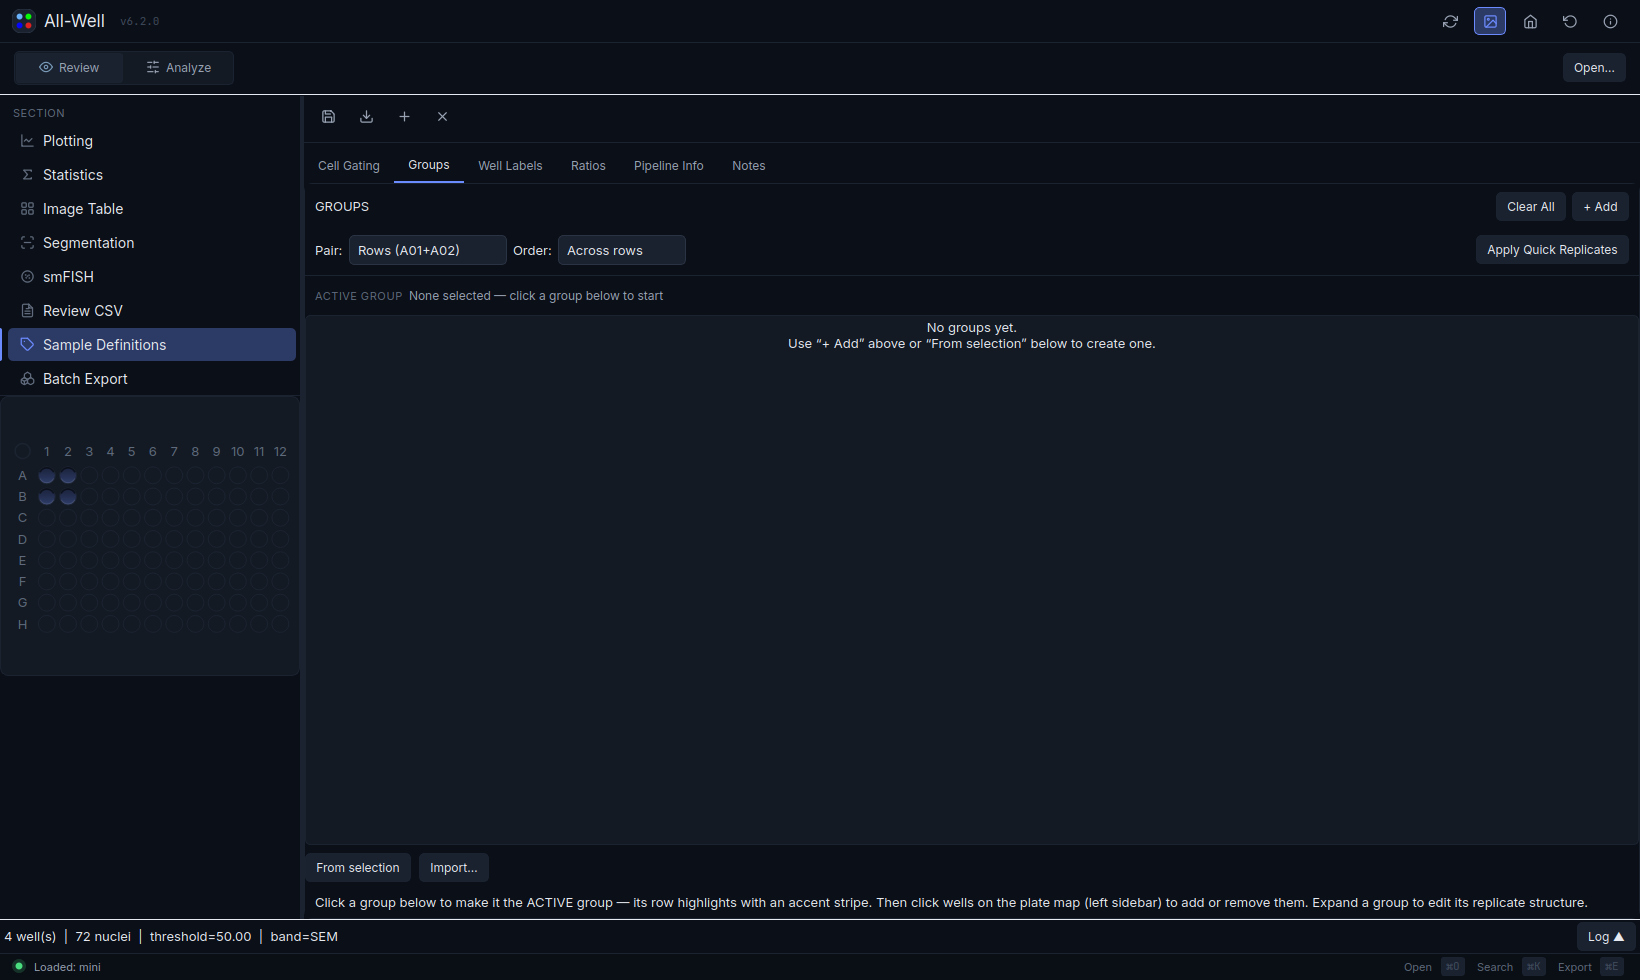
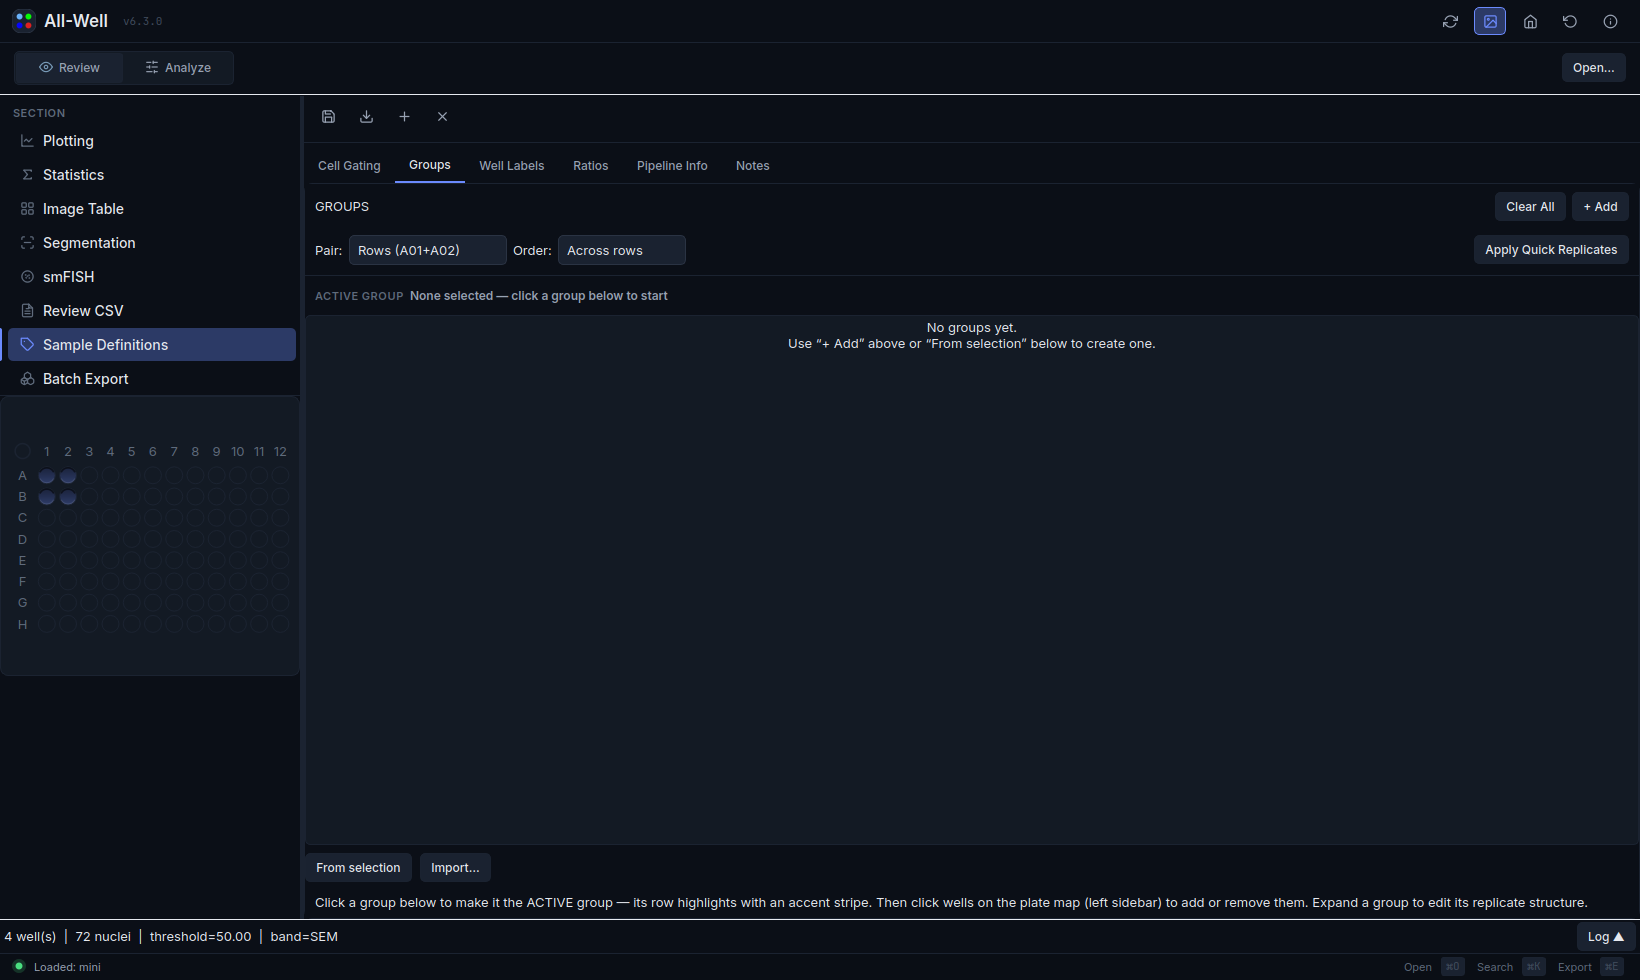
v6.3.0: bump version + refresh ARCHITECTURE history & audit screenshots
Version pill v6.2.0 → v6.3.0 (spec metadata 6.1.14 → 6.3.0). Document the last
two days in the ARCHITECTURE version history (Code-Diet extraction #400–#405,
visual-audit + fix wave #406–#417, font bundling) and refresh the startup-font
wiring + analyze_tab_form notes. Re-rendered every audit screenshot (now v6.3.0,
static fonts, image-table carets, themed smFISH empty state).

diff --git a/all_well.py b/all_well.py
@@ -96,7 +96,7 @@ class AllWellApp(QMainWindow):
         hl.addWidget(title)
 
         # Phase 10 (B2): version pill next to wordmark.
-        self._version_pill = QLabel("v6.2.0")
+        self._version_pill = QLabel("v6.3.0")
         self._version_pill.setObjectName("VersionPill")
         self._version_pill.setStyleSheet(
             f"color: {theme_v2.Colors.text_faint}; "

diff --git a/_Docs/Markdowns/ARCHITECTURE.md b/_Docs/Markdowns/ARCHITECTURE.md
@@ -241,7 +241,9 @@ all_well_launcher.main()                       (PyInstaller bundle only)
     ▼ regular Python run jumps in here:
 all_well.main()
     ├── QApplication(sys.argv)
-    ├── theme_v2.Typography.family ← app.font().family()      ← collapse QSS family list
+    ├── app_fonts.register_qt_fonts() → theme_v2.Typography.family/_mono
+    │       ← register bundled Inter / JetBrains Mono (static instances),
+    │         falling back to app.font().family() if unavailable
     ├── app.setStyleSheet(theme.qss())                        ← global QSS
     ├── AllWellApp().__init__
     │       ├── _build_ui()
@@ -764,11 +766,15 @@ ceiling at the current floor; it can only ratchet down from here.
 
 ## 6. The Analyze side
 
-### 6.1 `analyze_tab.py`
+### 6.1 `analyze_tab.py` / `analyze_tab_form.py`
 
-A single-file Qt form that builds the input panel (folder pickers, channel
-tokens, top-hat radii, segmentation method, smFISH options, worker count)
-plus a live-streaming log panel and a Run / Stop button. The Run path:
+The Qt form that builds the input panel (folder pickers, channel tokens,
+top-hat radii, segmentation method, smFISH options, worker count) plus a
+live-streaming log panel and a Run / Stop button. The form-building code was
+extracted into `analyze_tab_form.py` (a mixin consumed by `AnalyzeTab`) during
+the Code-Diet pass so `analyze_tab.py` stays under its line budget; the two are
+edited together. Verbose inline helper paragraphs are collapsed behind hover
+`ⓘ` icons (`_info_icon` / `_section(info=…)`). The Run path:
 
 1. Validate the form.
 2. Call `services.pipeline_service.find_pipeline_script()` to locate
@@ -1649,6 +1655,12 @@ an allowlist before a guard could be clean.
 The 6.0 series adds the live run-status dashboard and hardens the run path
 (remote fetch, crash-safety, dead-code removal) on top of the 5.5 analysis
 line. Newest first:
+
+- **6.3.0 — UI polish: bundled static fonts + Analyze info tooltips + dropdown carets + smFISH empty-state.** Shipped static weight instances of Inter / JetBrains Mono (generated via `scripts/make_static_fonts.py`) so the bundled faces register reliably on Windows (variable-font `addApplicationFont` was silently falling back to the platform default). Subsumed the inline helper paragraphs under the Analyze tab's Fluorescent-channels, Radius and Output-options areas into hover `ⓘ` info icons. Reserved space for dropdown-button carets in the global QSS so the `▾`/menu-indicator no longer overlaps button text. Made the smFISH "not enabled" empty state paint on the theme background like every other plot's empty warning (was a bare white axes + hardcoded grey). Version pill → `v6.3.0`.
+
+- **6.2.x — Visual UI audit + fix wave (PRs #406–#417, #410, #413).** A headless render harness (`tests/visual/render_views.py`) grabs every view/tab/empty-state to PNG (offscreen Qt + Agg, compositing nested matplotlib canvases), feeding a graded audit (`_Docs/visual_audit/REPORT.md` + committed screenshots). The audit drove a wave of fixes: bundled **Inter** (UI) + **JetBrains Mono** (numeric) fonts so the chrome and plots match across OSes (`well_viewer/core/app_fonts.py`, wired once in `all_well.main` and read by `plot_style`); fixed a `flush_dirty_scopes` import crash and a scatter `math` `NameError` that cascaded through load (#407); Image-Table declutter — Source **Raw/Corrected** options and a per-channel `≥Thr` threshold map that respects sample-definition thresholds (`image_compose.py`, `review_image/collect.py`, #408/#409); Batch-Export header cleanup (#412), a **filename-collision** guard so two groups with punctuation-only name differences no longer silently overwrite each other (`batch_export/_common.py::unique_export_stem`, #414), and OUTPUT-SETTINGS field alignment + button regrouping (#416); plus scatter agg-title de-clip and a Statistics empty-state hint (#417). Font packaging fixes for frozen builds + the `monospace` QSS alias warning (#413).
+
+- **6.1.x — "Code Diet" extraction + CI/test hardening (PRs #400–#405).** Split the oversized monoliths to bring them under enforced line budgets: extracted `analyze_tab_form.py` from `analyze_tab.py`, refactored the Image-Table `grid_view.py` / `controller.py`, and trimmed dead `review_image` code. Added the CI workflow (`ruff` + `pytest` fast lane) and ratchet guards — `test_monolith_budgets.py` (per-file line ceilings, only ever lowered), `test_extracted_module_names.py`, and `test_deferred_imports.py` — plus regression tests (review-image binary, per-row display, CSV-index perf, bar-timepoint restore). Reorganised planning docs under `_Docs/Markdowns/`.
 
 - **6.0.x — Review-CSV crash + Movie Montage removal + rsync tests (PR #356).** Fixed an OOM/SIGKILL when clicking a segmentation cell or the Review-CSV sidebar link: the non-editable FOV combo now carries `review_norm_fov`-normalised values (so cell-click `setCurrentText` hits the exact-match path instead of stranding the filter on a zero-row pair), and `refresh_review_csv_rows` hard-caps the materialised table at 5000 rows so it can never allocate millions of `QTableWidgetItem`s. Removed the dormant Movie Montage subsystem (~1490 lines: `preview/montage.py`, `preview/callbacks.py`, the dead tab builder, the `_montage_crop_tool` delegates, and `export.save_montage_figure`) now that the tab is folded into Image Table; the one live helper (`_show_image_pixel_tooltip`) moved into `review_image/controller.py`. Un-staled the three rsync-retry tests against the cancellable chunked backoff (the schedule is unchanged — they now assert it by reconstructing per-retry totals from the ≤0.25s sleep chunks).
 
